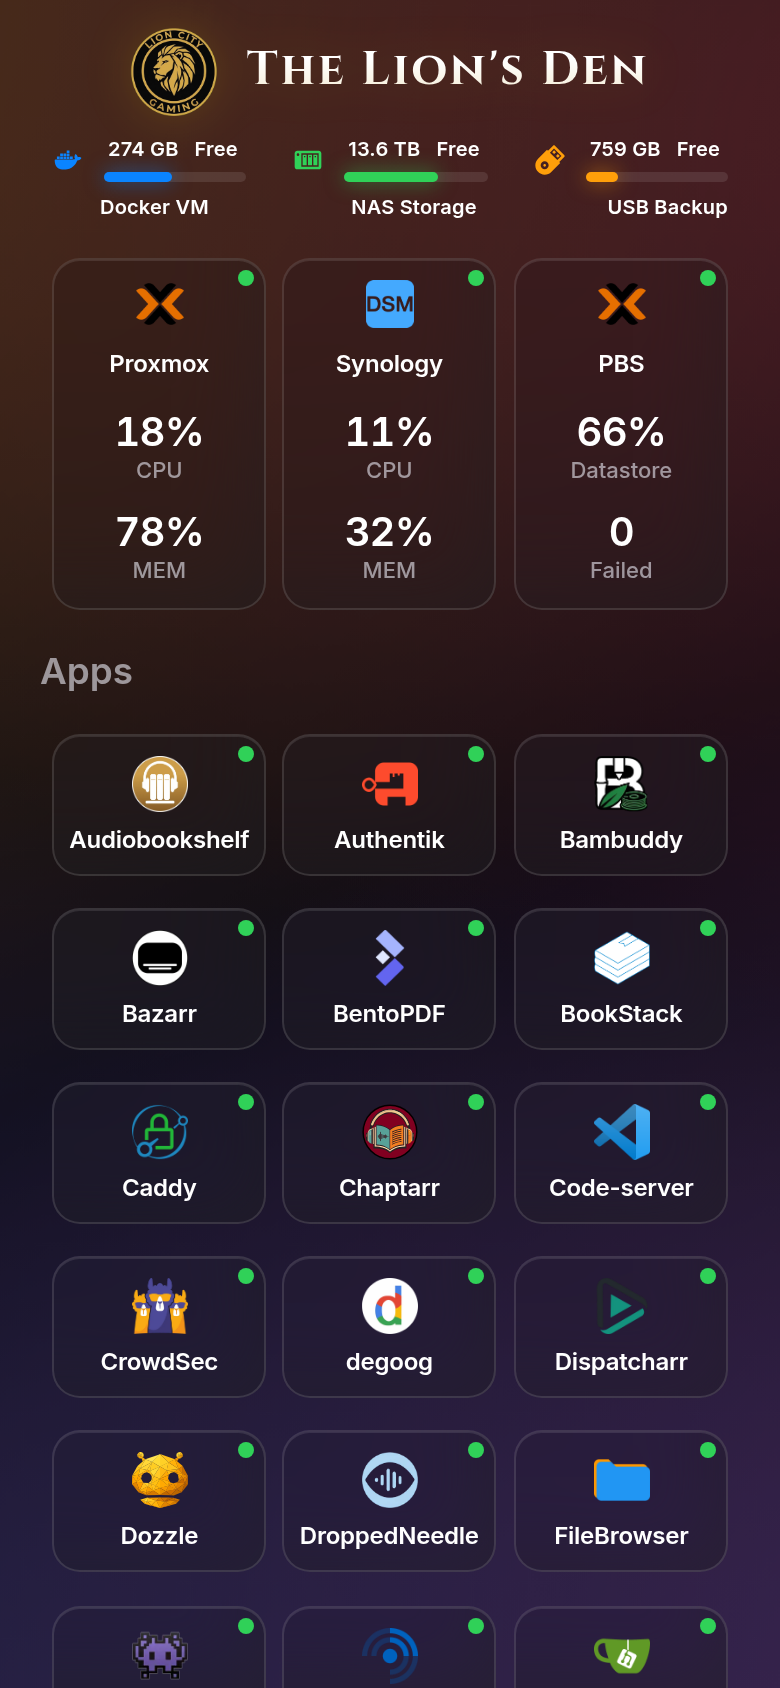
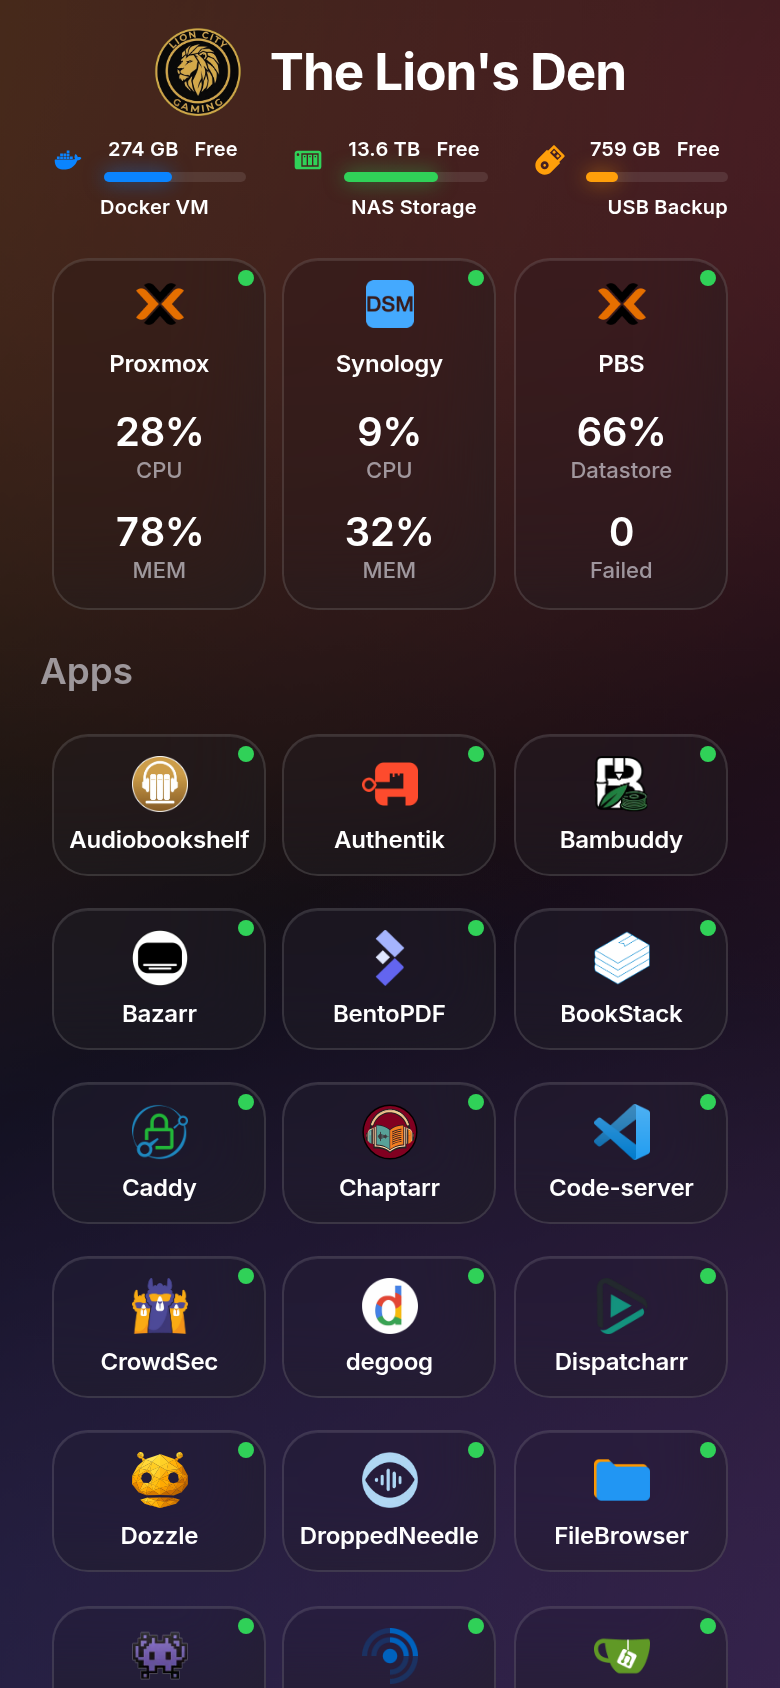
Phone view in the macOS look: Inter title and 18px tiles, new phone screenshot

Changed region(s): [[0.1538, 0.0, 0.8308, 0.0924], [0.4308, 0.2464, 0.5538, 0.2773], [0.1538, 0.2464, 0.1846, 0.2773]]

diff --git a/custom.css b/custom.css
@@ -2,7 +2,6 @@
    Deployed by Ansible (docker_host role) from the homelab-ansible repo; custom.js tags the page
    (section accents, disk colours and icons, clock, time of day, weather, open tab). */
 @import url('https://fonts.googleapis.com/css2?family=Inter:wght@400..800&display=swap');
-@import url('https://fonts.googleapis.com/css2?family=Cinzel:wght@600;700&display=swap');
 
 /* ================================================================================================
    Design tokens. The --nord* names are kept because older rules below still read them; the values
@@ -1424,4 +1423,24 @@ li.bookmark > a:hover { border-color: rgba(255, 255, 255, 0.22) !important; box-
 #__next > #background, #background {
   width: auto !important; height: auto !important; right: -8% !important; bottom: -8% !important;
   max-width: none !important; max-height: none !important;  /* the phone rule "#__next > div { max-width: 100% }" capped it too */
+}
+
+/* phones in the Mac theme (07/10/2026): the title in Inter like the desktop menu bar (the Cinzel crest
+   lettering and its champagne gradient were the last un-Mac element; the Cinzel import is gone), the app tiles
+   and server cards on the same 18px corners as every other card (#__next outranks the three older 14px rules),
+   section headings already grey. The wallpaper, glass, text levels and status dots come from the rules above */
+@media (pointer: coarse), (max-width: 1024px) {
+  .information-widget-greeting, .information-widget-greeting * {
+    background: none !important;
+    filter: none !important;
+    color: #ffffff !important;
+    -webkit-text-fill-color: #ffffff !important;
+  }
+  .information-widget-greeting span {
+    font-family: "Inter", -apple-system, BlinkMacSystemFont, sans-serif !important;
+    font-weight: 700 !important;
+    letter-spacing: -0.02em !important;
+    font-size: 1.6rem !important;
+  }
+  #__next li.service .service-card { border-radius: 18px !important; }
 }

diff --git a/README.md b/README.md
@@ -96,7 +96,7 @@ The disk names that get their own icon and colour (`Docker VM`, `NAS Storage`, `
 ## Credits
 
 - [Homepage](https://github.com/gethomepage/homepage) by the gethomepage team
-- Fonts: [Inter](https://rsms.me/inter/) and [Cinzel](https://fonts.google.com/specimen/Cinzel) from Google Fonts
+- Font: [Inter](https://rsms.me/inter/) from Google Fonts
 - Icons: [Material Design Icons](https://pictogrammers.com/library/mdi/) (embedded) and [dashboard icons](https://github.com/homarr-labs/dashboard-icons)
 - Weather: [OpenWeatherMap](https://openweathermap.org/) (free API key), the same source as the Home Assistant weather card
 
